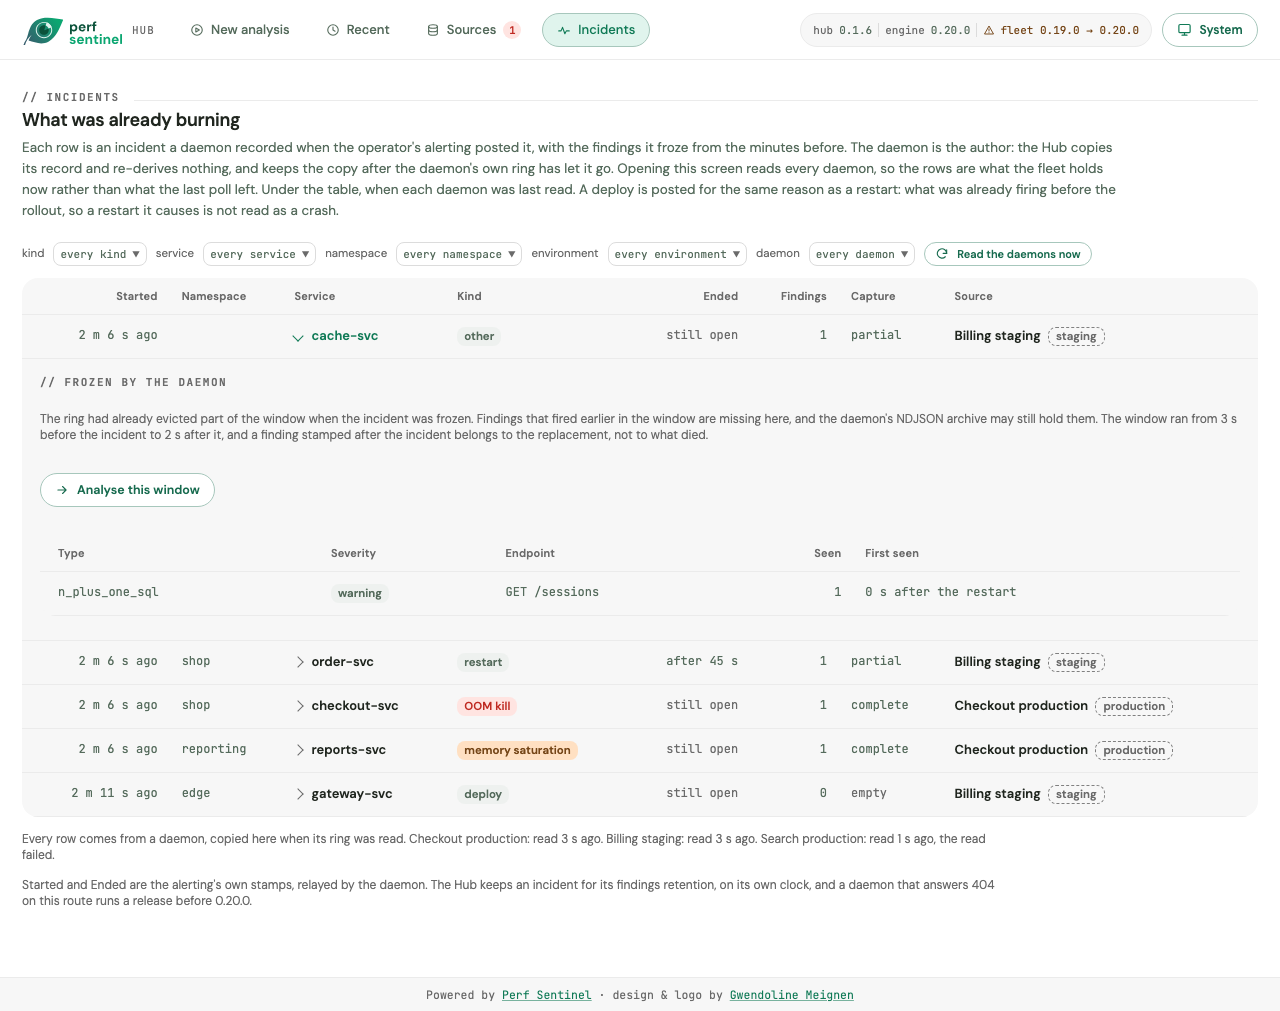
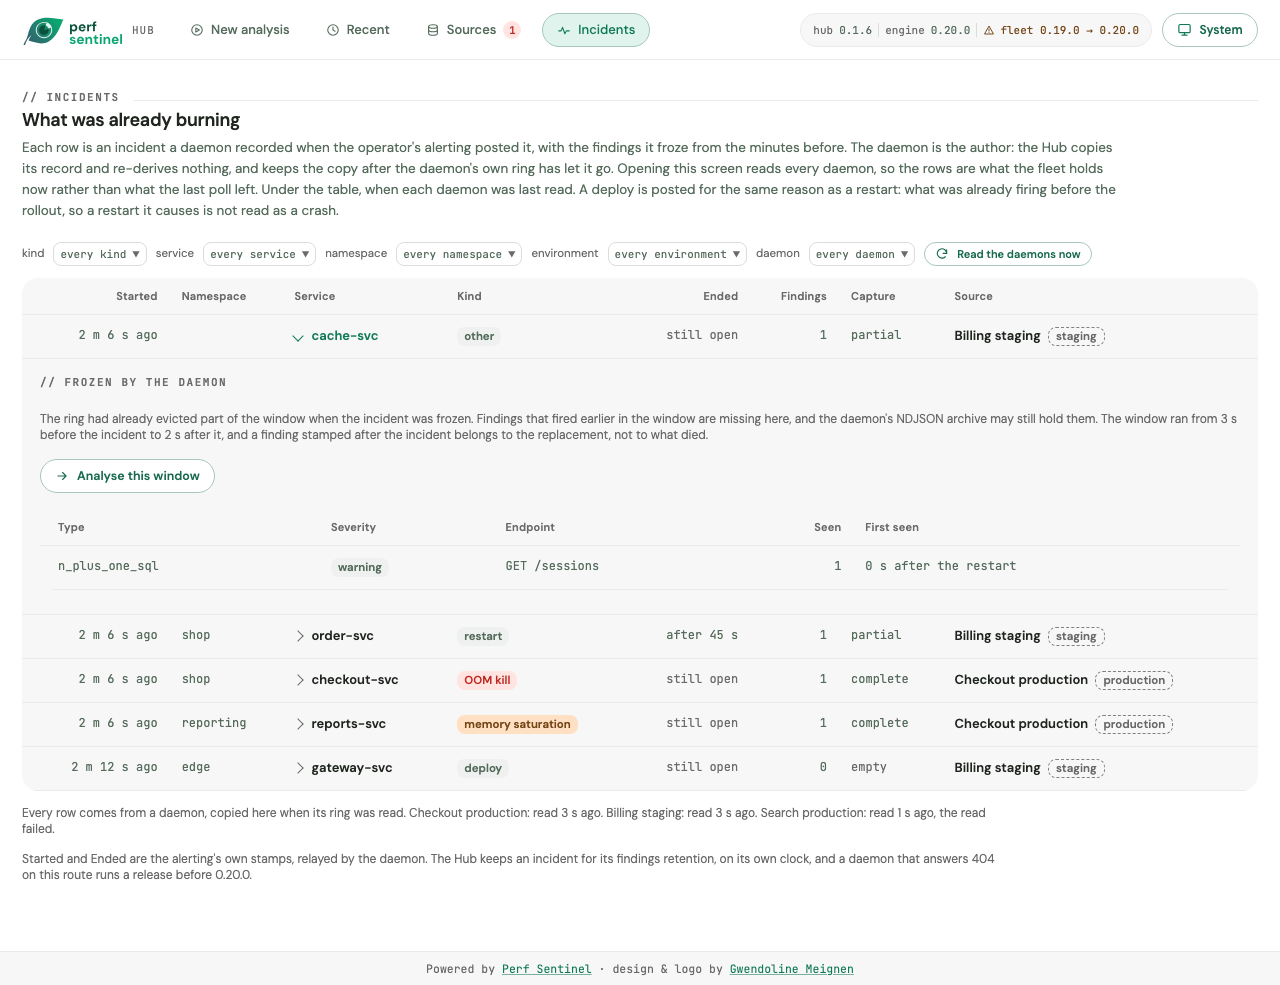
fix(hub): let the panel's own gap set the space above the analyse button

diff --git a/PerfSentinelHub/wwwroot/app.js b/PerfSentinelHub/wwwroot/app.js
@@ -4601,8 +4601,8 @@
             location.hash = PSL.incidentHandoffHash(detail, Date.now());
         });
         // The button comes after the note that describes the window, since it
-        // is the action the note argues for, and in the row the older-rows
-        // button already uses under the table.
+        // is the action the note argues for. A bare row, so the panel's own
+        // gap sets the distance and no margin adds a second one.
         return el("div", {class: "daemon-panel"}, [
             el("p", {class: "overline daemon-audience", text: "// frozen by the daemon"}),
             el("p", {
@@ -4612,7 +4612,7 @@
                     + PSL.dur(detail.window_to_ms - detail.at_ms) + " after it, and a finding stamped after the "
                     + "incident belongs to the replacement, not to what died."
             }),
-            el("p", {class: "sources-note"}, [analyse]),
+            el("div", {}, [analyse]),
             findings.length === 0
                 ? el("p", {class: "daemon-lead", text: "The daemon froze no finding for this incident."})
                 : el("div", {class: "sources-wrap"}, [incidentFindingsTable(findings, detail)])
